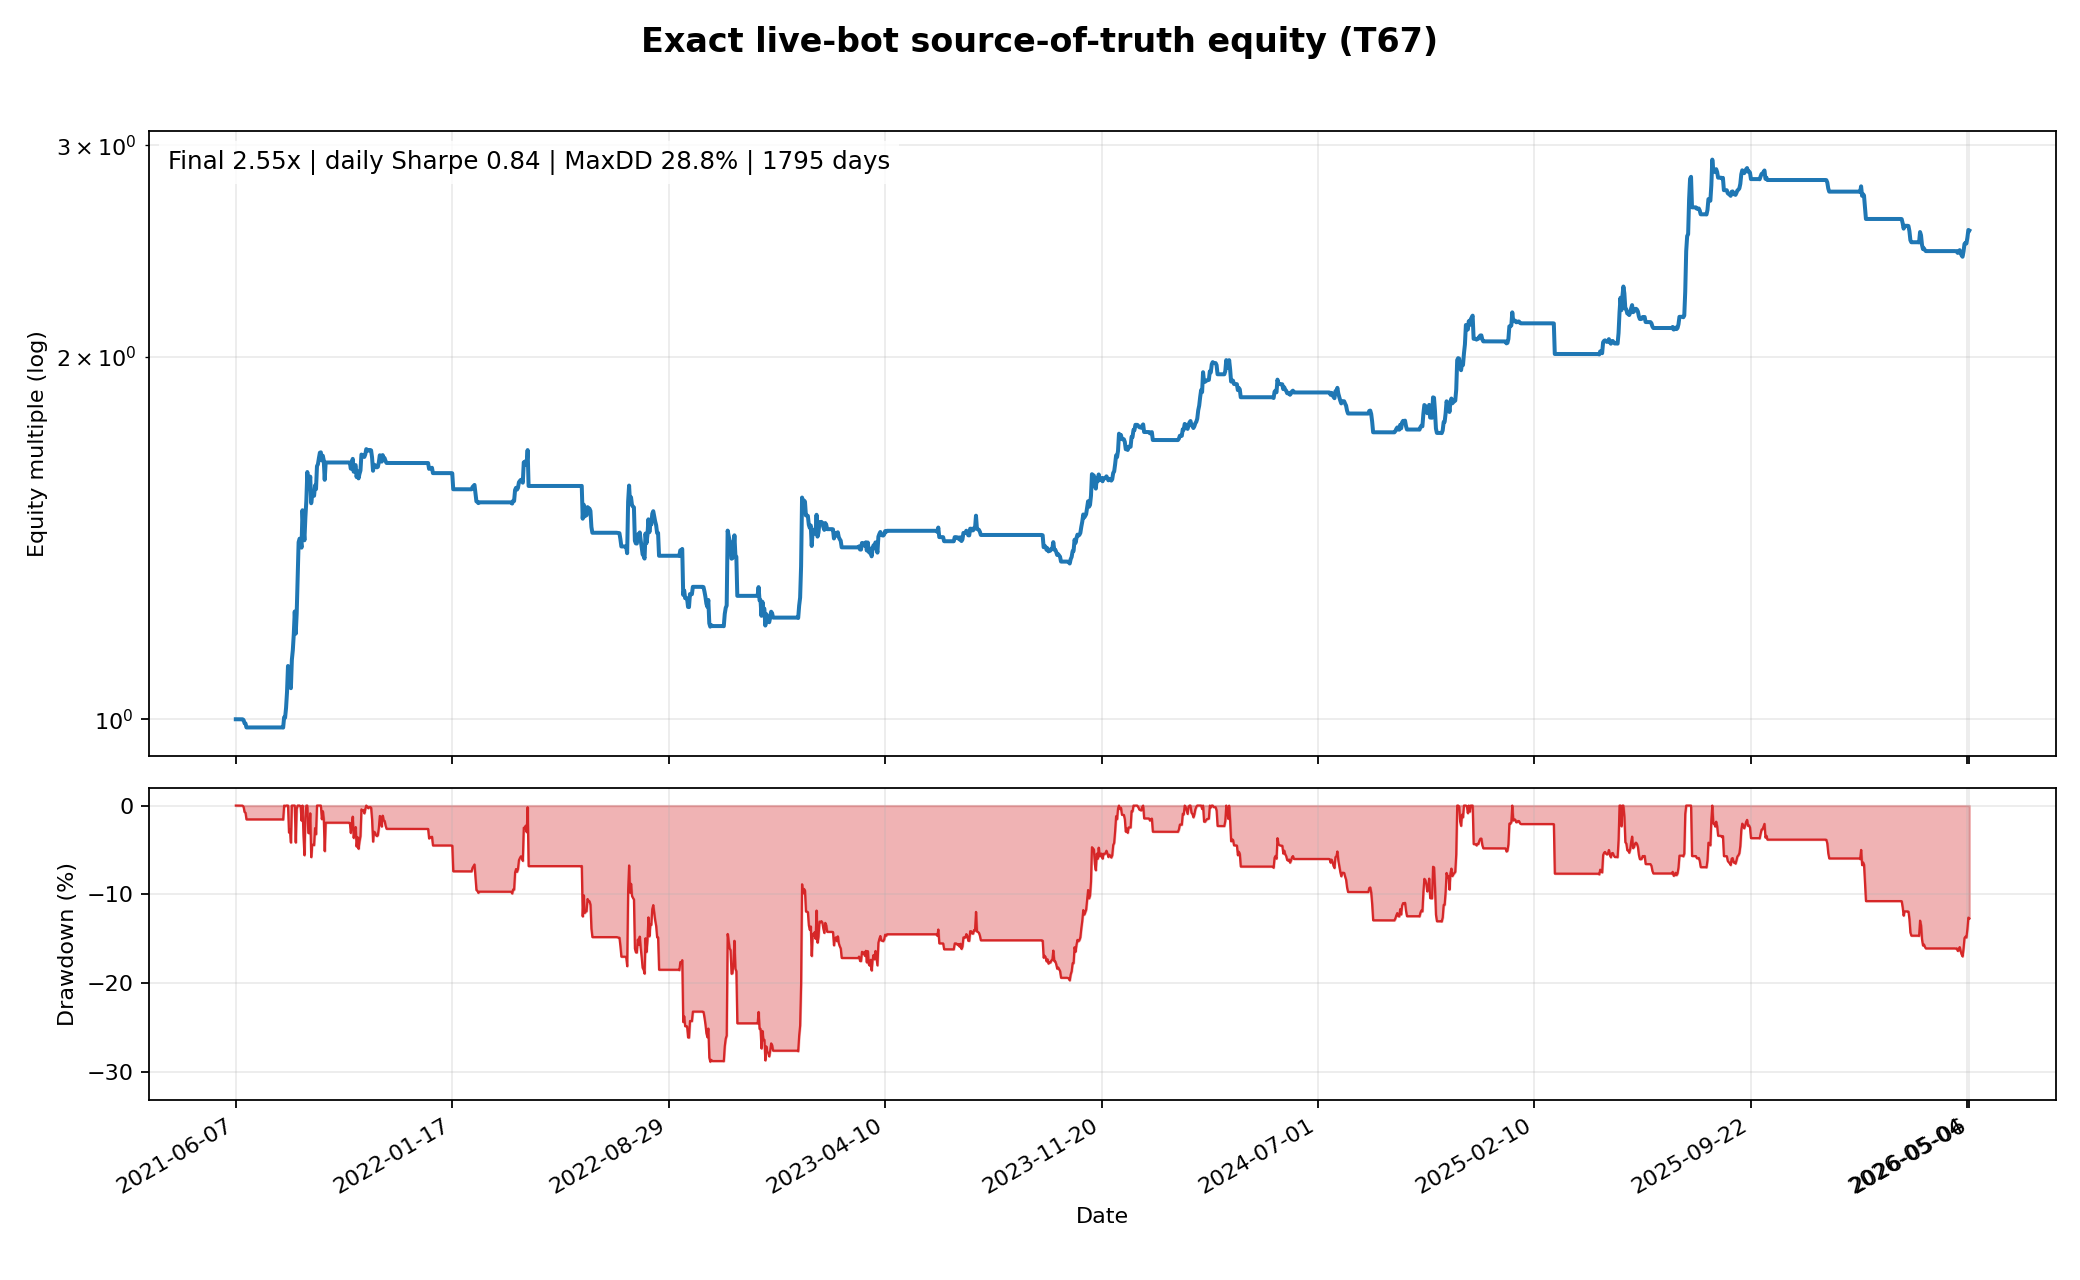
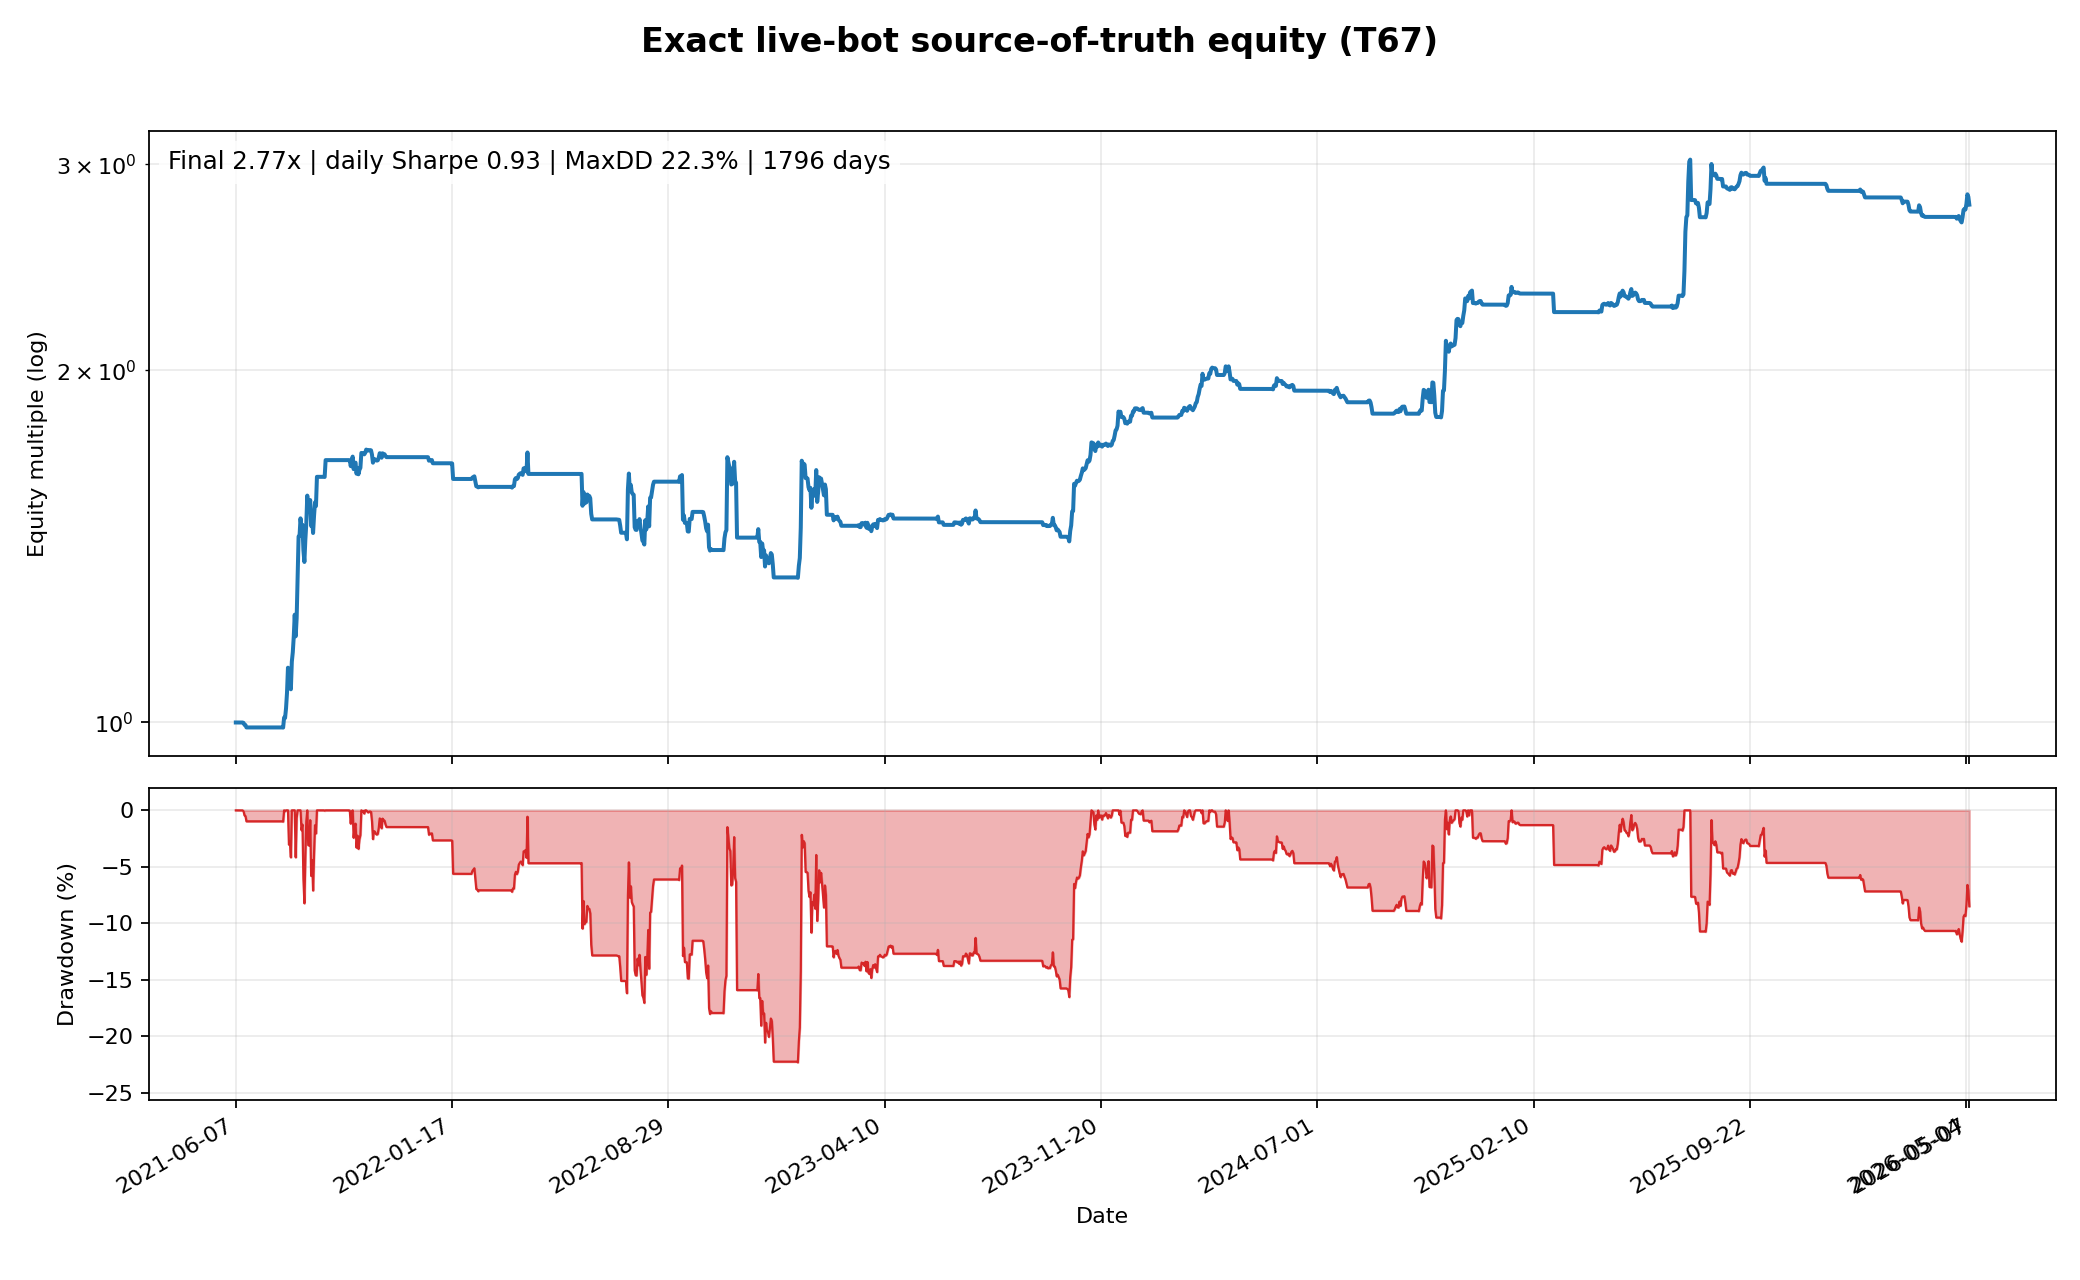
T84: refresh exact-live source metrics

diff --git a/HALL_OF_FAME.md b/HALL_OF_FAME.md
@@ -15,14 +15,14 @@ _Do not hand-edit headline metrics. Production numbers come from `snapshots/live
 |---|---:|
 | Universe | Base5 aligned daily bars: BTC, ETH, SOL, XRP, DOGE, ADA |
 | Days | 1796 |
-| Final equity | 2.80x |
-| Annualised return | 23.3% |
-| Daily account Sharpe | 1.04 |
+| Final equity | 2.77x |
+| Annualised return | 23.0% |
+| Daily account Sharpe | 1.03 |
 | Max drawdown | 22.3% |
 | Trades | 286 |
 | Win rate | 46.9% |
 
-**Deployability verdict:** viable for dry-run/testnet evaluation, not yet production capital. The current live-coded bot is modest but real-looking: 2.80x with Sharpe 1.04 and 22.3% MaxDD. It is not the old research headline.
+**Deployability verdict:** viable for dry-run/testnet evaluation, not yet production capital. The current live-coded bot is modest but real-looking: 2.77x with Sharpe 1.03 and 22.3% MaxDD. It is not the old research headline.
 
 ### Exact live parameters
 
@@ -46,7 +46,7 @@ fee_pct           = 0.000400
 
 ### Critical reconciliation
 
-- **Exact live bot:** 2.80x / Sharpe 1.04 / MaxDD 22.3% / 286 trades — production-facing headline.
+- **Exact live bot:** 2.77x / Sharpe 1.03 / MaxDD 22.3% / 286 trades — production-facing headline.
 - **Research harness:** 176.79x / Sharpe 3.29 / MaxDD 99.5% / 156 trades — diagnostic only, not live-coded production performance.
 - **T69 semantic-alignment candidate:** 1.02x / Sharpe 0.10 / MaxDD 30.8% — rejected; do not patch live semantics toward that candidate.
 - **T72 VOL_LOOKBACK-only live-semantics candidate:** 1.01x / Sharpe 0.09 / MaxDD 30.1% / 207 trades — rejected; do not add a top-3 dollar-volume gate to `src/live/bot.rs`.
@@ -56,9 +56,9 @@ fee_pct           = 0.000400
 
 | Metric | Value |
 |---|---:|
-| Equity without top 10 log contributors | 1.11x |
-| Top 5 share of log return | 58.5% |
-| Top 10 share of log return | 90.0% |
+| Equity without top 10 log contributors | 1.10x |
+| Top 5 share of log return | 59.1% |
+| Top 10 share of log return | 90.9% |
 
 Trend-following convexity is material. T73 top-winner audit is complete: VL=92 top-3 would have killed 8/10 top winners; ATR_RANK>=24 would have killed 5/10; ATR_RANK>=65 would have killed 8/10. Do not add new entry filters unless they explicitly preserve the convex tail.
 

diff --git a/snapshots/live_bot_exact_equity.md b/snapshots/live_bot_exact_equity.md
@@ -1,6 +1,6 @@
 # T65: Exact Live-Bot Source-of-Truth Equity
 
-Generated: 2026-05-07 12:36 UTC
+Generated: 2026-05-07 15:05 UTC
 
 ## Scope
 
@@ -41,16 +41,16 @@ This harness replays the current `src/live/bot.rs` daily event logic over common
 | Metric | Value |
 |---|---:|
 | Days | 1796 |
-| Final equity | 2.80x |
-| Annualised return | 23.3% |
-| Daily account Sharpe | 1.04 |
+| Final equity | 2.77x |
+| Annualised return | 23.0% |
+| Daily account Sharpe | 1.03 |
 | Max drawdown | 22.3% |
 | Trades | 286 |
 | Win rate | 46.9% |
-| Entry candidates before ATR gate | 512 |
-| ATR gate skips | 226 |
+| Entry candidates before ATR gate | 510 |
+| ATR gate skips | 224 |
 | Hedged entries | 175 |
-| Open positions liquidated at end | 1 |
+| Open positions liquidated at end | 0 |
 
 ## Yearly Table
 
@@ -61,16 +61,16 @@ This harness replays the current `src/live/bot.rs` daily event logic over common
 | 2023 | 1.85x | 39.0% | 1.59 | 14.7% |
 | 2024 | 2.28x | 22.8% | 1.52 | 9.6% |
 | 2025 | 2.85x | 25.1% | 1.35 | 10.7% |
-| 2026 | 2.80x | -1.7% | -0.68 | 6.3% |
+| 2026 | 2.77x | -2.7% | -1.05 | 6.3% |
 
 ## Top-Trade Attribution
 
 | Metric | Value |
 |---|---:|
-| Equity without top 5 log contributors | 1.53x |
-| Equity without top 10 log contributors | 1.11x |
-| Top 5 share of log return | 58.5% |
-| Top 10 share of log return | 90.0% |
+| Equity without top 5 log contributors | 1.52x |
+| Equity without top 10 log contributors | 1.10x |
+| Top 5 share of log return | 59.1% |
+| Top 10 share of log return | 90.9% |
 
 ### Top 10 Trades
 
